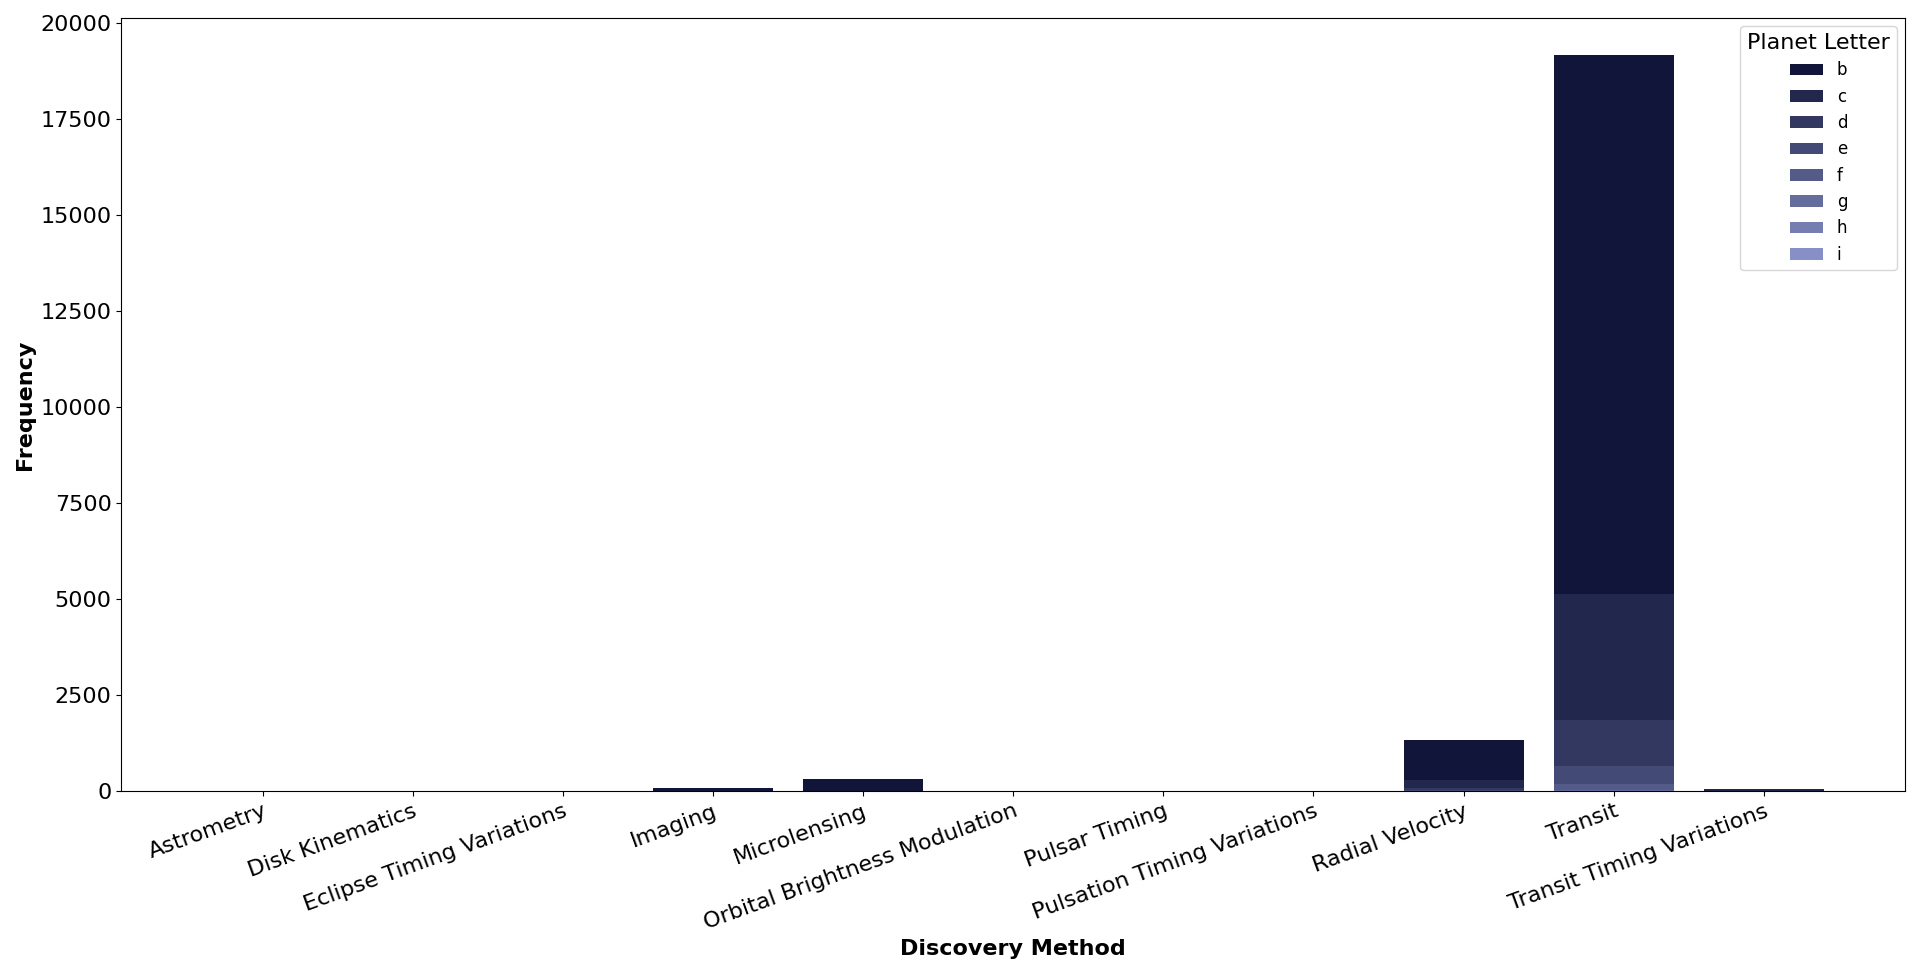
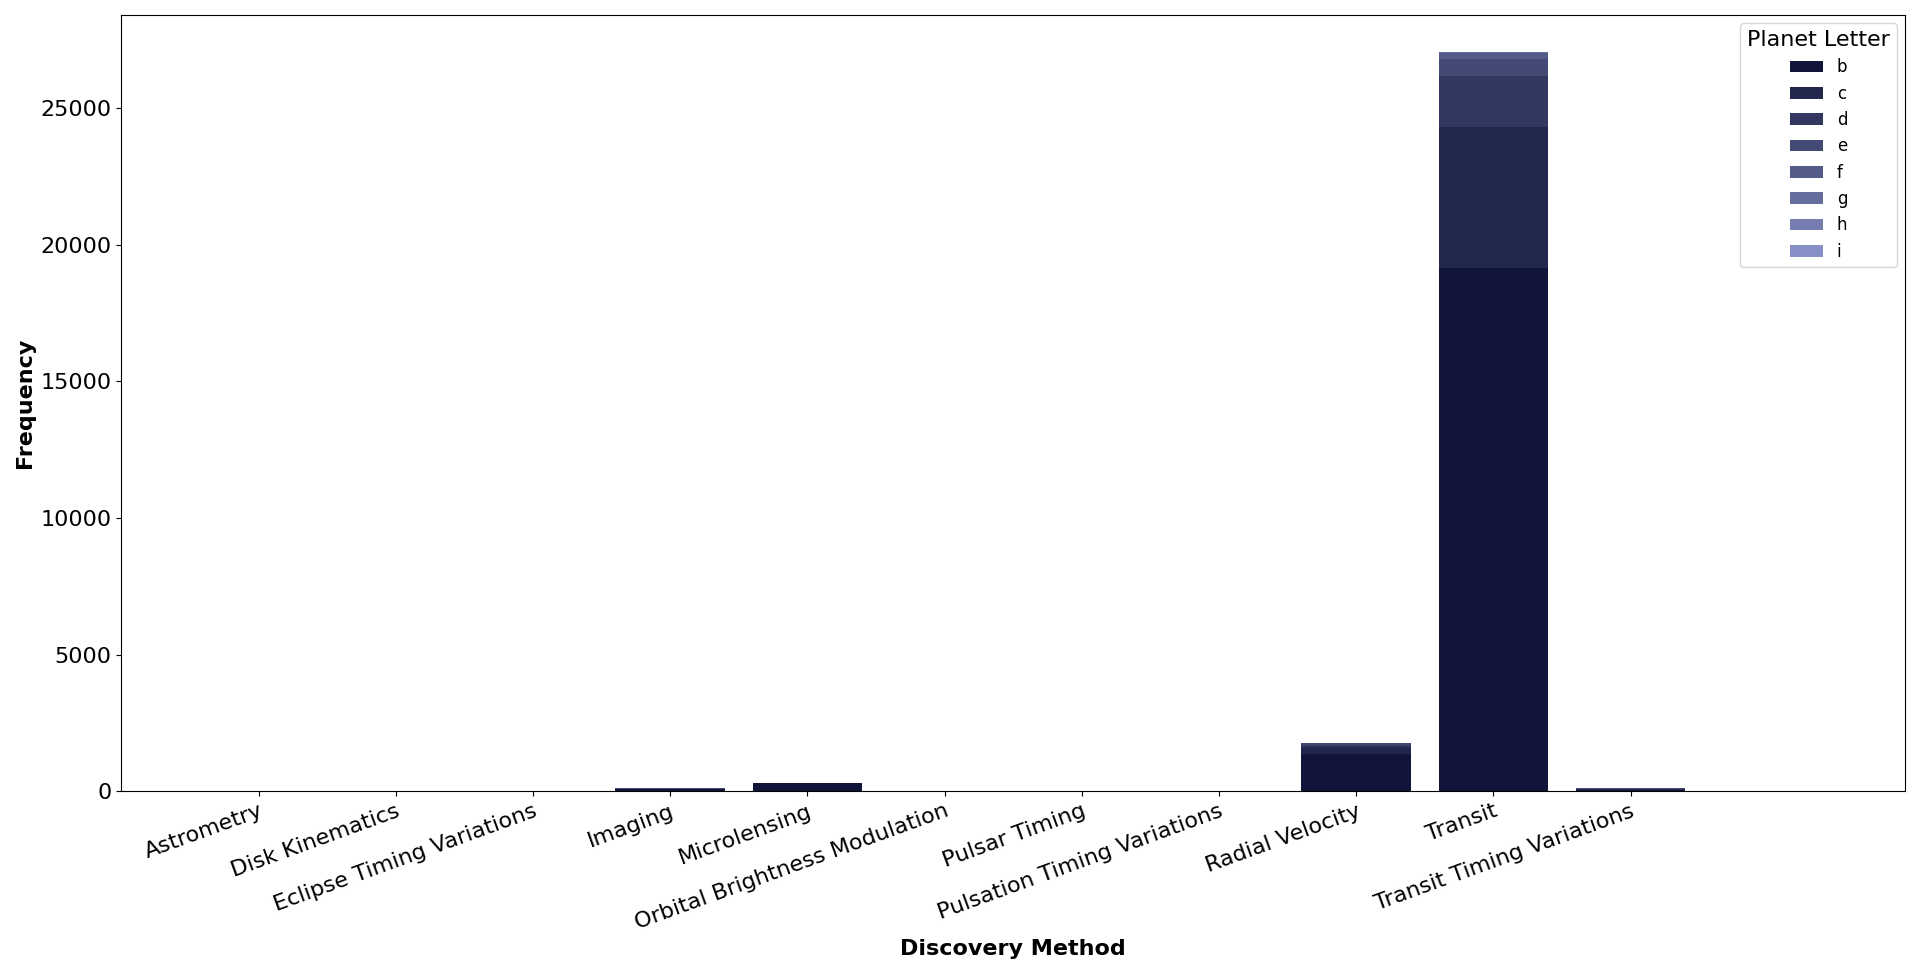
bar stacked r and matplotlib ok

diff --git a/Plot_types/Barplot_Stacked/Barplot_Stacked_Python_matplotlib.py b/Plot_types/Barplot_Stacked/Barplot_Stacked_Python_matplotlib.py
@@ -52,14 +52,15 @@ df_plot = df_plot.fillna(0)
 df_plot = df_plot.sort_values(cat_var2)
 df_plot = df_plot.reset_index(drop = True)
 
+# Relative frequencies:
 df_plot_rel = df_plot.copy()
 for l1 in range(df_plot_rel.shape[0]):
     sum_lvl_var1 = sum([df_plot_rel.iloc[l1, i] for i in range(1, df_plot_rel.shape[1])])
     for l2 in range(1, df_plot_rel.shape[1]):
         df_plot_rel.iloc[l1, l2] = round(df_plot_rel.iloc[l1, l2]/sum_lvl_var1*100, 2)
+# df_plot = df_plot_rel
 
 # Plot:
-df_plot = df_plot_rel
 n_groups = df_plot.shape[1] - 1
 cmap = LinearSegmentedColormap.from_list("my_palette", ["#111539", "#97A1D9"])
 my_palette = [cmap(i/n_groups) for i in np.array(range(n_groups))]
@@ -68,14 +69,16 @@ fig, ax = plt.subplots(
     tight_layout = True
 )
 bars = []
+y_sum = np.zeros(df_plot.shape[0])
 for i, (name, values) in enumerate(df_plot.iloc[:, 1:].items()):
-    y_sum = df_plot.loc[i, name]
     for x, y in enumerate(values):
         bar = ax.bar(
             x = x,
-            height = y + y_sum,
+            bottom = y_sum[x],
+            height = y,
             color = my_palette[i]
         )
+    y_sum = df_plot.iloc[:, 1:(i + 2)].sum(axis = 1)
     bars.append(bar[0])
 _ = ax.legend(
     bars, 
@@ -95,6 +98,7 @@ _ = ax.set_xlabel(
 )
 _ = ax.set_ylabel(
     "Frequency",
+    # "Proportion (%)",
     fontsize = 16,
     fontweight = "bold"
 )
@@ -109,6 +113,18 @@ _ = ax.tick_params(
     which = "major", 
     labelsize = 16
 )
-_ = plt.setp(ax.get_xticklabels(),
-             ha = "right", 
-             rotation_mode = "anchor")
+_ = plt.setp(
+    ax.get_xticklabels(),
+    ha = "right", 
+    rotation_mode = "anchor"
+)
+_ = plt.xlim(
+    left = -1,
+    right = df_plot.shape[0] + 1
+)
+# _ = plt.ylim(
+#     bottom = -5,
+#     top = 105
+# )
+
+

diff --git a/Plot_types/Barplot_Grouped/Barplot_Grouped_Python_seaborn.py b/Plot_types/Barplot_Grouped/Barplot_Grouped_Python_seaborn.py
@@ -46,6 +46,7 @@ ax = sns.countplot(
     data = df_plot, 
     x = cat_var2, 
     hue = cat_var1,
+    hue_order = pd.crosstab(df_plot[cat_var1], df_plot[cat_var2]).sort_values(by = cat_var1).index,
     ec = "white",
     palette = my_palette
 )
@@ -77,8 +78,10 @@ _ = ax.tick_params(
     which = "major", 
     labelsize = 16
 )
-_ = plt.setp(ax.get_xticklabels(),
-             ha = "right", 
-             rotation_mode = "anchor")
+_ = plt.setp(
+    ax.get_xticklabels(),
+    ha = "right", 
+    rotation_mode = "anchor"
+)
 
 

diff --git a/Plot_types/Barplot_Grouped/Barplot_Grouped_Python_matplotlib.py b/Plot_types/Barplot_Grouped/Barplot_Grouped_Python_matplotlib.py
@@ -107,7 +107,13 @@ _ = ax.tick_params(
     which = "major", 
     labelsize = 16
 )
-_ = plt.setp(ax.get_xticklabels(),
-             ha = "right", 
-             rotation_mode = "anchor")
+_ = plt.setp(
+    ax.get_xticklabels(),
+    ha = "right", 
+    rotation_mode = "anchor"
+)
+_ = plt.xlim(
+    left = -1,
+    right = df_plot.shape[0] + 1
+)
 
